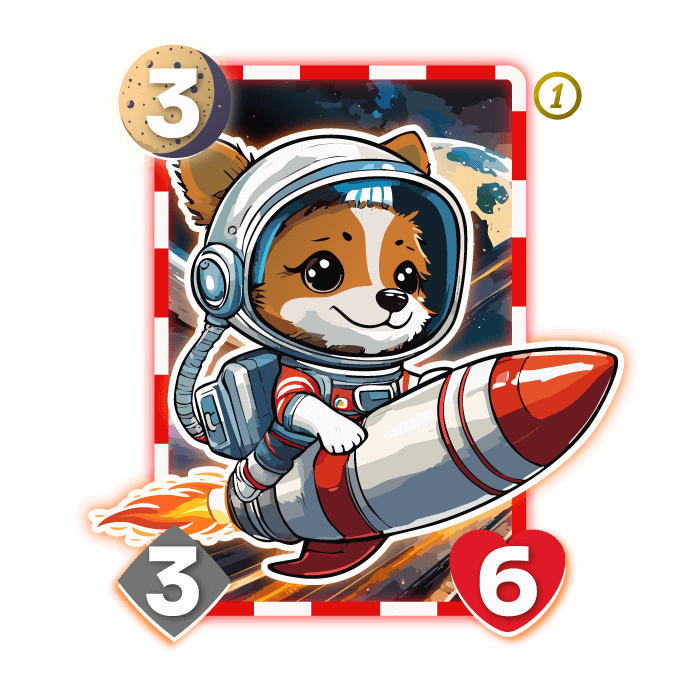
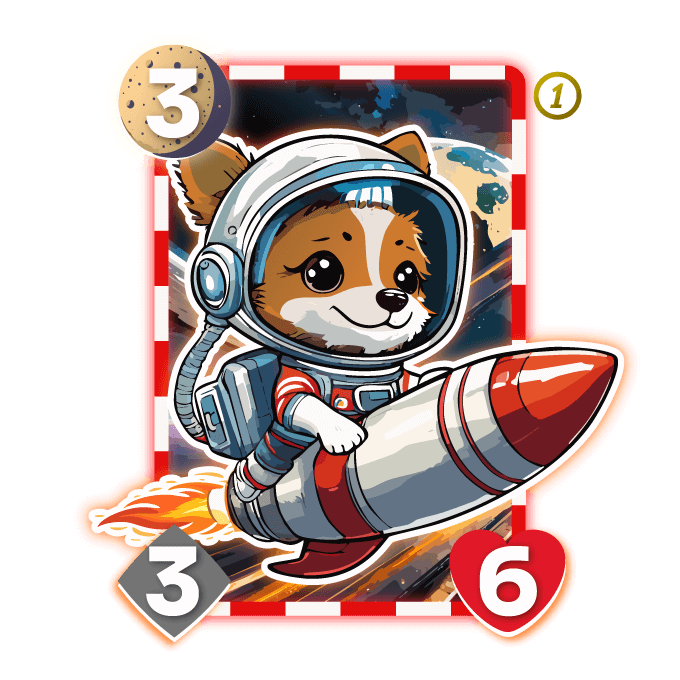
Update Moon Astro card

diff --git a/apps/battlepets-web/src/app/page.module.scss b/apps/battlepets-web/src/app/page.module.scss
@@ -1556,7 +1556,7 @@
   padding-top: 3rem;
   position: relative;
 
-  &::before {
+  &::after {
     @include mixins.fillSpace;
 
     background-image: url('../../public/images/promodecoration.png');
